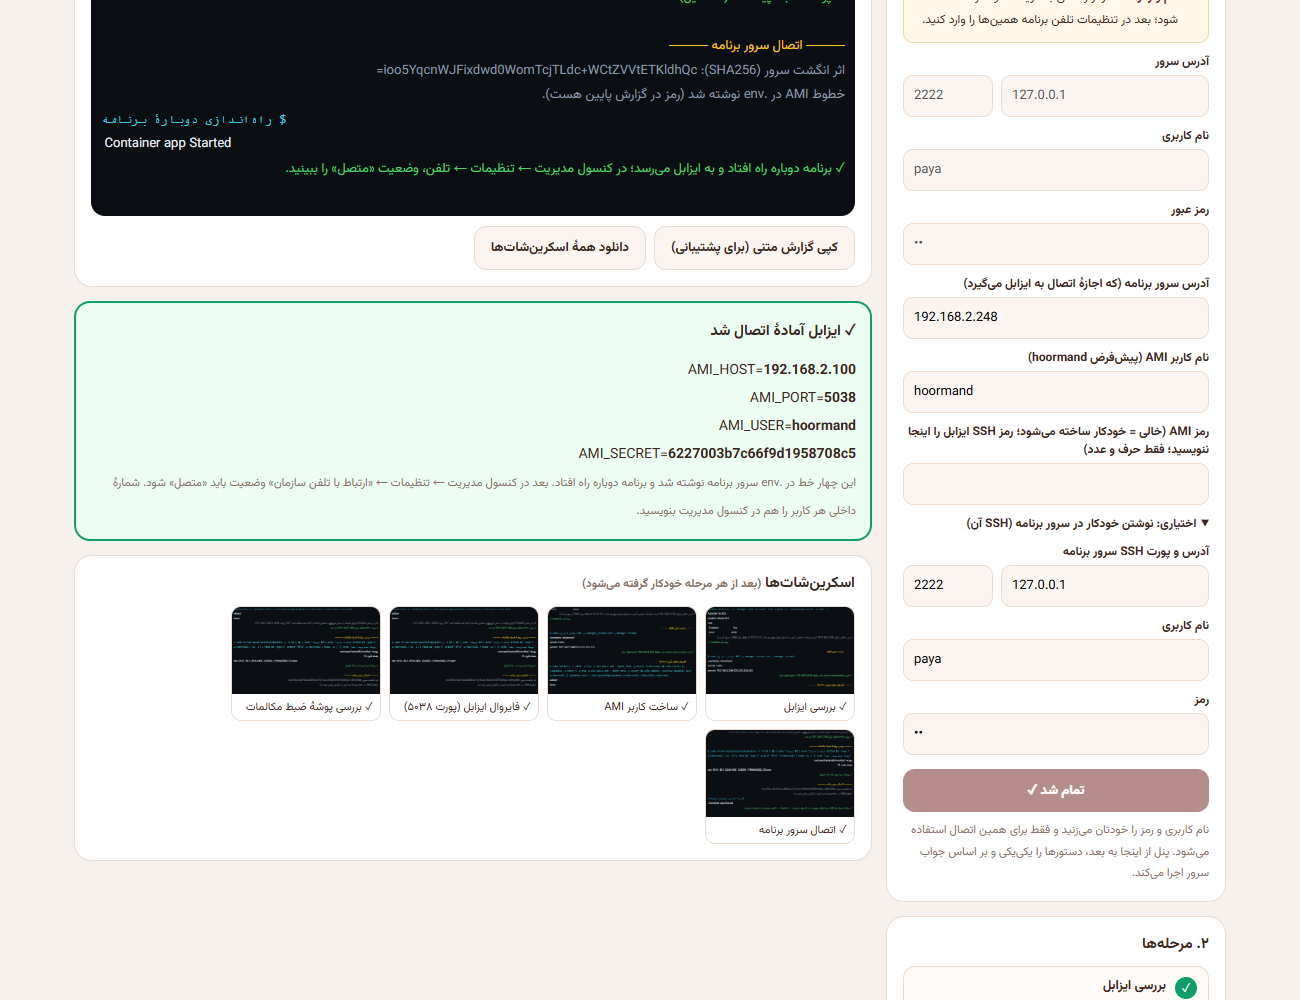
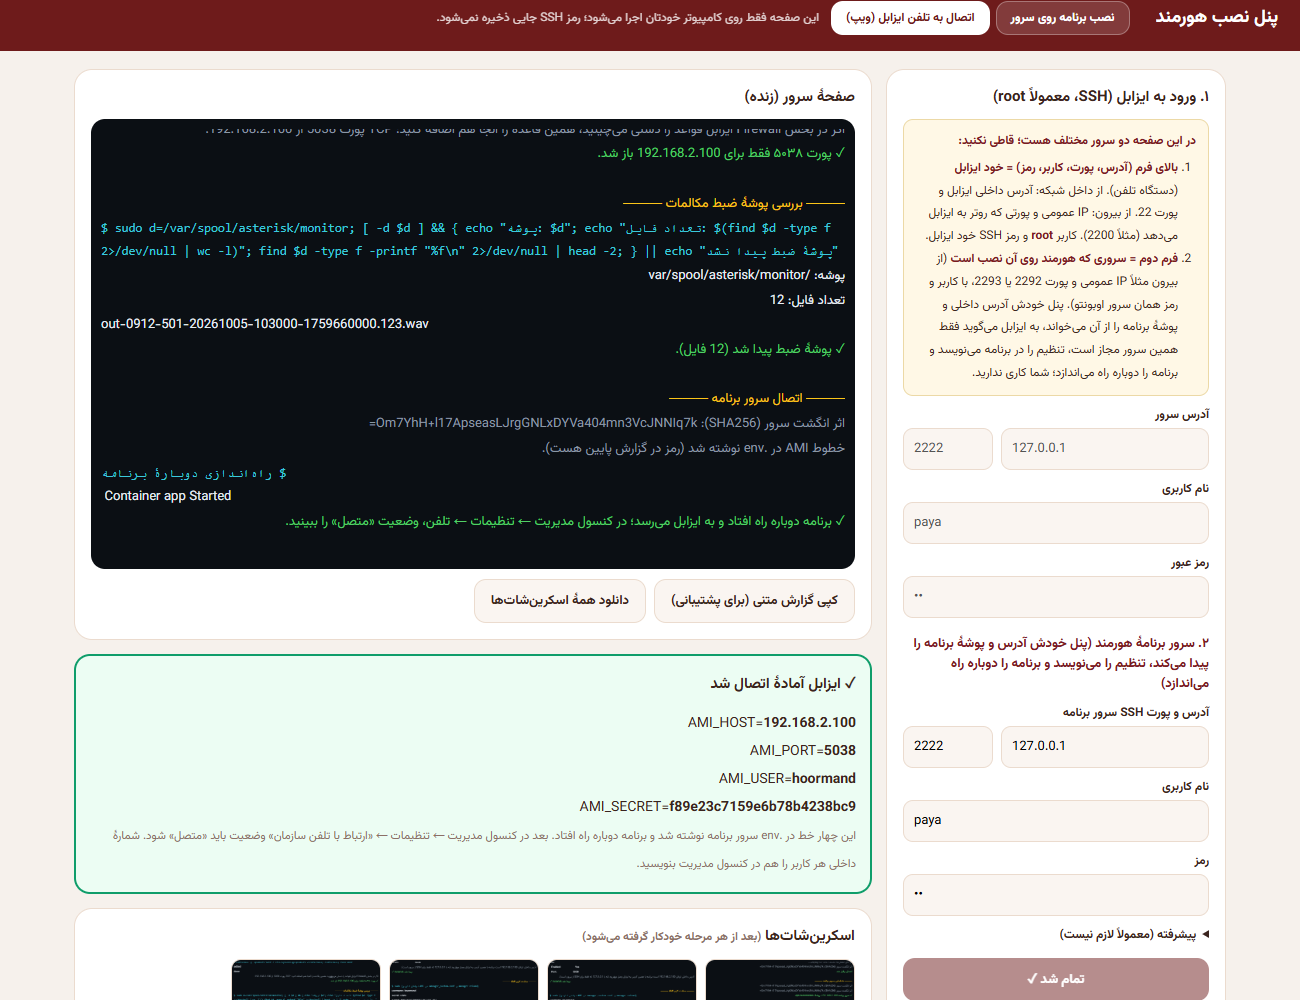
feat(installer): Issabel tool does everything by itself: reads the app server's LAN address and folder over SSH, permits only it, writes .env and restarts the app

diff --git a/installer/public/index.html b/installer/public/index.html
@@ -71,12 +71,15 @@
       <div class="row"><input id="host" placeholder="مثلاً 192.168.1.80" autocomplete="off" /><input id="port" value="22" title="پورت SSH" /></div>
       <label>نام کاربری</label><input id="user" placeholder="مثلاً paya یا root" autocomplete="off" />
       <label>رمز عبور</label><input id="pass" type="password" autocomplete="off" />
-      <div id="voipFields" style="display:none"><label>آدرس سرور برنامه (که اجازهٔ اتصال به ایزابل میگیرد)</label><input id="vApp" placeholder="مثلاً 192.168.2.248" />
-        <label>نام کاربر AMI (پیشفرض hoormand)</label><input id="vUser" value="hoormand" />
-        <label>رمز AMI (خالی = خودکار ساخته میشود؛ رمز SSH ایزابل را اینجا ننویسید؛ فقط حرف و عدد)</label><input id="vSecret" autocomplete="off" />
-        <details style="margin-top:10px"><summary style="cursor:pointer;font-weight:bold;font-size:12px">اختیاری: نوشتن خودکار در سرور برنامه (SSH آن)</summary>
-          <label>آدرس و پورت SSH سرور برنامه</label><div class="row"><input id="aHost" placeholder="مثلاً 37.255.238.219" /><input id="aPort" value="22" /></div>
-          <label>نام کاربری</label><input id="aUser" /><label>رمز</label><input id="aPass" type="password" autocomplete="off" /></details></div>
+      <div id="voipFields" style="display:none">
+        <div style="margin:16px 0 4px;font-weight:bold;font-size:13px;color:#7a1c20">۲. سرور برنامهٔ هورمند (پنل خودش آدرس و پوشهٔ برنامه را پیدا میکند، تنظیم را مینویسد و برنامه را دوباره راه میاندازد)</div>
+        <label>آدرس و پورت SSH سرور برنامه</label><div class="row"><input id="aHost" placeholder="مثلاً 37.255.238.219" /><input id="aPort" value="22" /></div>
+        <label>نام کاربری</label><input id="aUser" /><label>رمز</label><input id="aPass" type="password" autocomplete="off" />
+        <details style="margin-top:10px"><summary style="cursor:pointer;font-weight:bold;font-size:12px">پیشرفته (معمولاً لازم نیست)</summary>
+          <label>آدرس داخلی سرور برنامه (خالی = خودکار خوانده میشود)</label><input id="vApp" placeholder="خالی = خودکار" />
+          <label>پوشهٔ برنامه روی آن سرور (خالی = خودکار)</label><input id="aDir" placeholder="مثلاً /opt/automation" />
+          <label>نام کاربر AMI (پیشفرض hoormand)</label><input id="vUser" value="hoormand" />
+          <label>رمز AMI (خالی = خودکار ساخته میشود؛ فقط حرف و عدد)</label><input id="vSecret" autocomplete="off" /></details></div>
       <div id="installFields"><label>پورت برنامه (پیشفرض ۸۰۸۰؛ برای نصب دوم مثلاً ۸۰۸۱)</label><input id="appPort" value="8080" />
       <label>نام نصب (برای CRM دوم یک نام تازه، مثلاً crm2)</label><input id="instName" value="automation" />
       <label>دامنه (اختیاری، مثلاً crm2.ramtinai.com)</label><input id="instDomain" placeholder="خالی = فقط با آدرس و پورت" /></div>
@@ -261,17 +264,17 @@
     var t = document.querySelector('#loginCard h2'); if (t) t.textContent = m === 'voip' ? '۱. ورود به ایزابل (SSH، معمولاً root)' : '۱. ورود به سرور (SSH)';
   }
   var GUIDE_INSTALL = '<b>کدام سرور را بنویسم؟</b> همان سروری که برنامهٔ هورمند باید روی آن نصب شود (اوبونتو).<ol><li><b>آدرس و پورت:</b> از داخل شبکه آدرس داخلی سرور و پورت 22 (مثلاً 192.168.2.248). از بیرون شبکه IP عمومی و پورتی که روتر به آن سرور داده است (مثلاً 37.255.238.219 و 2292).</li><li><b>نام کاربری و رمز:</b> کاربر خود سرور اوبونتو (نه ایزابل) که دسترسی sudo دارد.</li></ol>';
-  var GUIDE_VOIP = '<b>در این صفحه دو سرور مختلف هست؛ قاطی نکنید:</b><ol><li><b>بالای فرم (آدرس، پورت، کاربر، رمز) = خود ایزابل</b> (دستگاه تلفن). از داخل شبکه: آدرس داخلی ایزابل و پورت 22. از بیرون: IP عمومی و پورتی که روتر به ایزابل میدهد (مثلاً 2200). کاربر <b>root</b> و رمز SSH خود ایزابل.</li><li><b>«آدرس سرور برنامه» = سروری که هورمند روی آن نصب است</b> (آدرس داخلی، مثلاً 192.168.2.248). فقط این آدرس اجازهٔ اتصال به ایزابل میگیرد. آدرس خود ایزابل را اینجا ننویسید.</li><li><b>نام و رمز AMI:</b> رمز را خالی بگذارید تا خودکار ساخته شود؛ بعد در تنظیمات تلفن برنامه همینها را وارد کنید.</li></ol>';
+  var GUIDE_VOIP = '<b>در این صفحه دو سرور مختلف هست؛ قاطی نکنید:</b><ol><li><b>بالای فرم (آدرس، پورت، کاربر، رمز) = خود ایزابل</b> (دستگاه تلفن). از داخل شبکه: آدرس داخلی ایزابل و پورت 22. از بیرون: IP عمومی و پورتی که روتر به ایزابل میدهد (مثلاً 2200). کاربر <b>root</b> و رمز SSH خود ایزابل.</li><li><b>فرم دوم = سروری که هورمند روی آن نصب است</b> (از بیرون مثلاً IP عمومی و پورت 2292 یا 2293، با کاربر و رمز همان سرور اوبونتو). پنل خودش آدرس داخلی و پوشهٔ برنامه را از آن میخواند، به ایزابل میگوید فقط همین سرور مجاز است، تنظیم را در برنامه مینویسد و برنامه را دوباره راه میاندازد؛ شما کاری ندارید.</li></ol>';
   $('tabInstall').onclick = function () { setMode('install'); }; $('tabVoip').onclick = function () { setMode('voip'); }; setMode(mode);
   function sendStart() {
     if (mode === 'voip') {
       ws.send(JSON.stringify({ type: 'voip-start', appHost: $('vApp').value.trim(), amiUser: $('vUser').value.trim(), amiSecret: $('vSecret').value.trim(),
-        appSsh: $('aHost').value.trim() ? { host: $('aHost').value.trim(), port: $('aPort').value.trim(), user: $('aUser').value.trim(), password: $('aPass').value } : null }));
+        appSsh: $('aHost').value.trim() ? { host: $('aHost').value.trim(), port: $('aPort').value.trim(), user: $('aUser').value.trim(), password: $('aPass').value, dir: $('aDir').value.trim() } : null }));
     } else ws.send(JSON.stringify({ type: 'start', appPort: $('appPort').value, name: $('instName').value, domain: $('instDomain').value }));
   }
   $('connectBtn').onclick = function () {
     if (!$('host').value.trim() || !$('user').value.trim() || !$('pass').value) { $('connErr').textContent = 'آدرس، نام کاربری و رمز را وارد کنید.'; $('connErr').style.display = 'block'; return; }
-    if (mode === 'voip' && !/^\d{1,3}(\.\d{1,3}){3}$/.test($('vApp').value.trim())) { $('connErr').textContent = 'آدرس سرور برنامه را وارد کنید (مثلاً 192.168.2.248)؛ فقط همین آدرس اجازهٔ اتصال به ایزابل میگیرد.'; $('connErr').style.display = 'block'; $('vApp').focus(); return; }
+    if (mode === 'voip' && !($('aHost').value.trim() && $('aUser').value.trim() && $('aPass').value)) { $('connErr').textContent = 'مشخصات SSH سرور برنامه (آدرس، نام کاربری، رمز) را در فرم دوم وارد کنید تا پنل همهچیز را خودکار انجام دهد.'; $('connErr').style.display = 'block'; $('aHost').focus(); return; }
     $('connectBtn').disabled = true;
     ws.send(JSON.stringify({ type: 'connect', mode: mode, host: $('host').value.trim(), port: $('port').value.trim(), username: $('user').value.trim(), password: $('pass').value }));
   };

diff --git a/installer/server.js b/installer/server.js
@@ -459,12 +459,16 @@ class Session {
     if (this.running) return;
     this.running = true;
     this.cancelled = false;
-    const appHost = String(o.appHost || '').trim();
+    let appHost = String(o.appHost || '').trim();
+    // the address this machine uses to reach the LAN/internet: the source address of the route to a public address
+    const LAN_CMD = `ip -4 route get 1.1.1.1 2>/dev/null | awk '{for(i=1;i<=NF;i++) if($i=="src") print $(i+1)}' | head -1`;
+    const pbxLogin = { host: this.host, port: this.sshPort, username: this.user, password: this.password };
     const user = String(o.amiUser || 'hoormand').replace(/[^A-Za-z0-9_-]/g, '') || 'hoormand';
     const secret = String(o.amiSecret || '').replace(/[^A-Za-z0-9]/g, '') || require('crypto').randomBytes(12).toString('hex');
     let pbxHost = this.host; // replaced by the phone system's own LAN address when we reached it through the public IP
     const app = o.appSsh && o.appSsh.host && o.appSsh.user && o.appSsh.password ? o.appSsh : null;
     this.steps = [
+      ...(app ? [{ id: 'srv', title: 'شناسایی سرور برنامه', status: 'wait' }] : []),
       { id: 'pbx', title: 'بررسی ایزابل', status: 'wait' },
       { id: 'ami', title: 'ساخت کاربر AMI', status: 'wait' },
       { id: 'fw', title: 'فایروال ایزابل (پورت ۵۰۳۸)', status: 'wait' },
@@ -474,11 +478,37 @@ class Session {
     this.send({ type: 'steps', steps: this.steps });
     const ip4 = /^\d{1,3}(\.\d{1,3}){3}$/;
     const steps = {
+      // look at the program's server first (its LAN address and folder), then go back to the phone system
+      srv: async () => {
+        try { this.conn && this.conn.end(); } catch {}
+        this.conn = null;
+        try {
+          await this.connect({ host: app.host, port: app.port || 22, username: app.user, password: app.password });
+        } catch (e) {
+          return { ok: false, note: 'به سرور برنامه وصل نشدم: ' + e.message + ' (آدرس، پورت، نام کاربری و رمز SSH سرور برنامه را بررسی کنید.)' };
+        }
+        const lan = (await this.run(LAN_CMD, { quiet: true })).out.trim();
+        const dirs = (await this.run(`docker ps --filter label=com.docker.compose.service=app -q | xargs -r docker inspect -f '{{index .Config.Labels "com.docker.compose.project.working_dir"}}'`, { root: true, quiet: true })).out
+          .split(/\r?\n/).map((x) => x.trim()).filter((x) => x.startsWith('/'));
+        let dir = String(app.dir || '').trim() || dirs[0] || '';
+        if (!dir) dir = /yes/.test((await this.run('[ -f /opt/automation/.env ] && echo yes', { quiet: true })).out) ? '/opt/automation' : '';
+        if (dirs.length > 1 && !app.dir) this.log('چند برنامه روی این سرور هست (' + dirs.join('، ') + ')؛ اولی را انتخاب کردم. اگر برنامهٔ دیگری مدنظر است، «پوشهٔ برنامه» را در بخش پیشرفته بنویسید.', 'yellow');
+        try { this.conn && this.conn.end(); } catch {}
+        this.conn = null;
+        try { await this.connect(pbxLogin); } catch (e) { return { ok: false, note: 'برگشتن به ایزابل نشد: ' + e.message }; }
+        if (!dir) return { ok: false, note: 'برنامهٔ هورمند روی سرور برنامه پیدا نشد (Docker یا پوشهٔ /opt/automation). اول نصب برنامه را کامل کنید.' };
+        if (!appHost) {
+          if (!ip4.test(lan)) return { ok: false, note: 'آدرس داخلی سرور برنامه را نخواندم؛ آن را در بخش پیشرفته بنویسید.' };
+          appHost = lan;
+        }
+        app.dir = dir;
+        return { ok: true, note: 'سرور برنامه ' + appHost + '، پوشهٔ ' + dir + '.' };
+      },
       pbx: async () => {
         const r = await this.run('asterisk -V 2>&1 | head -1; cat /etc/issabel-release /etc/redhat-release 2>/dev/null | head -2; whoami; asterisk -rx "manager show settings" 2>&1 | grep -iE "enabled|port|bind" | head -5', { root: true });
         if (!/Asterisk\s+\d/i.test(r.out) || /command not found/i.test(r.out)) return { ok: false, note: 'Asterisk روی این سرور پیدا نشد. با آدرس خود ایزابل وصل شدهاید؟ (کاربر root لازم است.)' };
         // the app server lives inside the LAN: it must reach the phone system by its LAN address, not by the public IP we SSH into
-        const lan = (await this.run("hostname -I 2>/dev/null | tr ' ' '\\n' | grep -E '^(10\\.|192\\.168\\.|172\\.(1[6-9]|2[0-9]|3[01])\\.)' | head -1", { quiet: true })).out.trim();
+        const lan = (await this.run(LAN_CMD, { quiet: true })).out.trim();
         if (/^\d{1,3}(\.\d{1,3}){3}$/.test(lan) && lan !== pbxHost) {
           this.log('آدرس داخلی ایزابل ' + lan + ' است؛ برنامه با همین آدرس به ایزابل وصل میشود (نه با ' + pbxHost + ' که فقط برای SSH از بیرون است).', 'gray');
           pbxHost = lan;

diff --git a/installer/test/fake-server.js b/installer/test/fake-server.js
@@ -15,7 +15,8 @@ function answer(script) {
   const out = (stdout = '', code = 0, stderr = '') => ({ stdout, code, stderr });
   if (/^stat -c %s \/tmp\/hoormand-src\.tgz/.test(script)) return out(String(st.uploadedBytes || 0) + '\n');
   // Issabel / phone-system commands
-  if (/^hostname -I 2>\/dev\/null \| tr/.test(script)) return out('192.168.2.100\n');
+  if (/^ip -4 route get 1\.1\.1\.1/.test(script)) return out('192.168.2.100\n');
+  if (/^docker ps --filter label=com\.docker\.compose\.service=app/.test(script)) return out('/opt/automation\n');
   if (/^asterisk -V/.test(script)) return out('Asterisk 16.30.0\nIssabel release 5.0\nroot\n  Enabled:                     Yes\n  Port:                        5038\n');
   if (/manager_custom\.conf/.test(script)) return out('username: hoormand\nsecret: <Set>\npermit: 192.168.2.248/255.255.255.255\n');
   if (/command -v iptables/.test(script)) return out('Chain INPUT (policy ACCEPT)\n');
